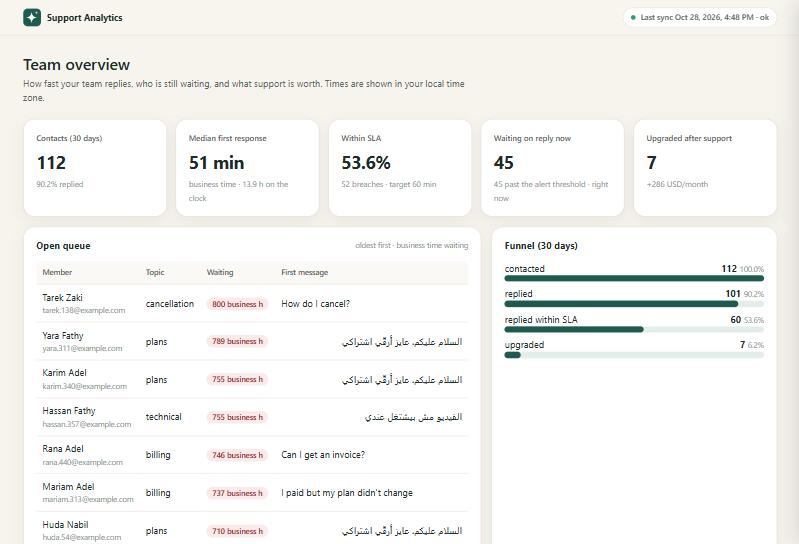
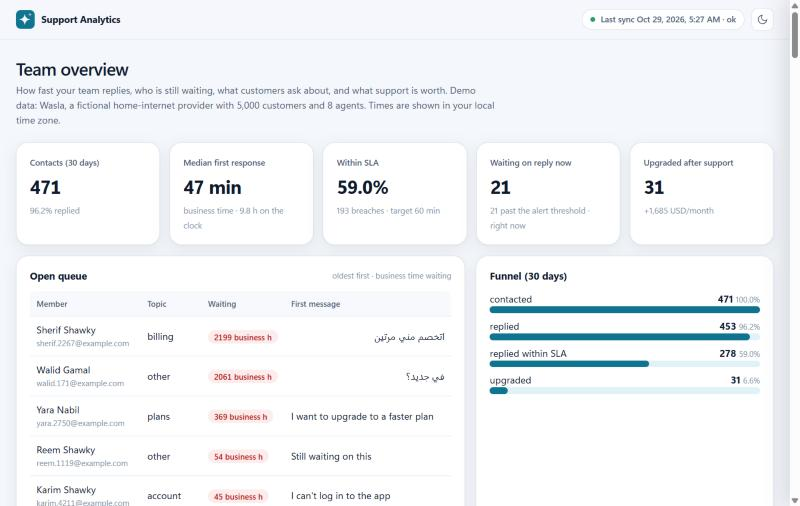
Docs: how topics are decided and measured, new dashboard screenshot

diff --git a/docs/METRICS.md b/docs/METRICS.md
@@ -39,9 +39,33 @@ took 63 h 20 min on the calendar and **20 business minutes**.
 
 ## Topics
 
-The contact's first message is matched against a keyword taxonomy (English and Arabic, configurable).
-Topics are checked in order, so more specific ones come first ("cancel my subscription" is a cancellation,
-not a plan question). Anything unmatched is `other`.
+A topic is **scored**, not guessed (`analytics/topics.py`):
+
+1. Text is normalized the way people type: lower case, Arabic letter variants unified (أ إ آ → ا, ة → ه, ى → ي),
+   diacritics and stretched letters removed ("النتتتت" → "النت").
+2. **Every member message of the contact** counts, not only the first ("Hi" followed by the real question is common).
+   The first message that says something weighs 1.5x; greetings and a closing "thanks" weigh nothing.
+3. Each topic's words add points when they appear as words; Arabic words may carry the usual prefixes and suffixes
+   ("وفاتورتي" matches "فاتورة"). A phrase of several words = 2 points, a word = 1, a weak word marked `~` = 0.5
+   (words like "plan" or "subscription" appear in many kinds of requests).
+4. The best topic wins only if it scores at least `topic_min_ratio` (default 1.5) times the runner-up. Otherwise the
+   contact is **uncertain** and is left for a person to label, instead of being counted under a wrong topic.
+   No topic words at all: `other`.
+5. **Confidence** = winner / (winner + runner-up): 0.5 is a tie, 1.0 means no other topic was mentioned.
+
+**Accuracy** is measured on 176 hand-labeled contacts (`eval/topics_labeled.csv`: English, five Arabic dialects,
+Franco, mixed, typos, multi-message). The keywords were tuned on the even half only, then frozen, then measured
+once on the odd half:
+
+| | Development half | Unseen half |
+|---|---|---|
+| Accuracy (uncertain counts as wrong) | 100% | **90.9%** |
+| Accuracy when it decides | 100% | 93.0% |
+| Decided (not uncertain) | 100% | 97.7% |
+
+On the unseen half, precision is 100% for six of the seven topics (91% for connection): when it names a topic it is
+almost always right; its misses go to `other` or `uncertain`, which a person reviews. `python -m support_analytics eval`
+recomputes this and fails CI below 90%.
 
 ## Upgrades and revenue
 
